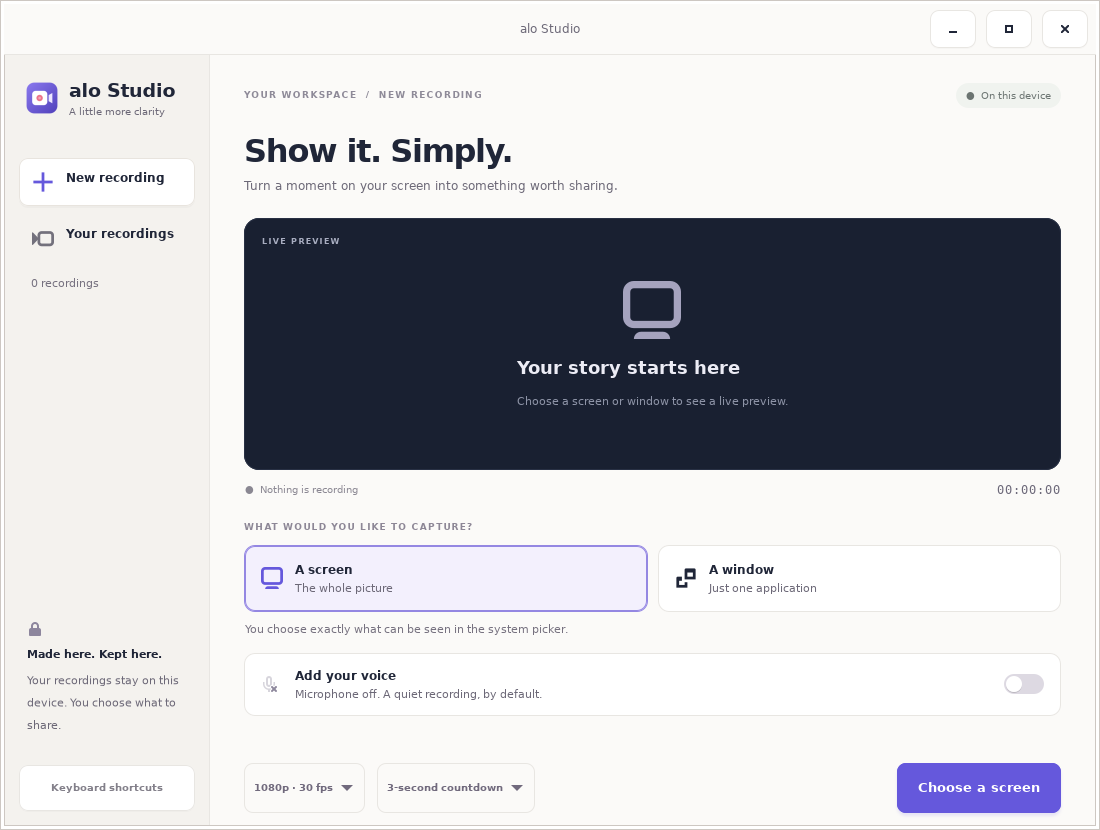
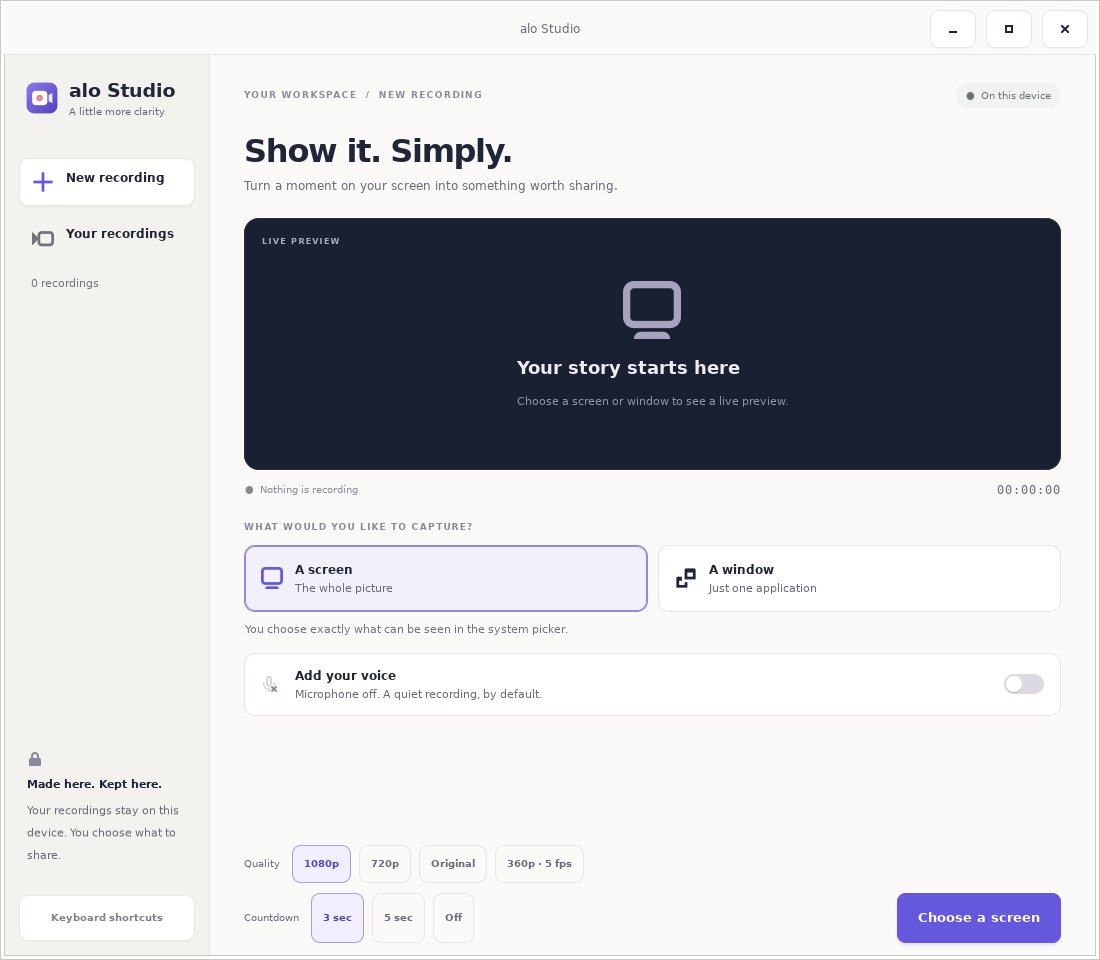
Update Studio screenshots and recording acceptance evidence

diff --git a/docs/autonomy/updates/recording-permissions-and-native-capture.md b/docs/autonomy/updates/recording-permissions-and-native-capture.md
@@ -5,6 +5,12 @@ Work remains on `app/alo-studio`, with a draft review. Market publication,
 signed distribution, production-image acceptance, and physical-hardware
 acceptance are separate. The complete booted walk is **not yet accepted**.
 
+Current result: native permissions, the installable application, and the scoped
+automated checks are implemented and passing. The software VM completes static
+window recording controls and saves verified media, but the final animated-window
+microphone run still loses samples. Studio stops and preserves that partial video.
+This remains a draft and is not demonstration-quality or market-release acceptance.
+
 ## Implemented boundaries
 
 alo's public portal identifies the Flatpak caller through its bus connection
@@ -32,8 +38,10 @@ from ordinary installed builds.
 
 ## Recording behavior
 
-Saved duration comes from encoded packets. Empty video cannot become a completed
-library entry. Preview dimensions are bounded without enlarging small sources.
+Saved duration is read from the completed media by GStreamer discovery, off the
+UI thread with a 15-second deadline. Missing, damaged, empty, or audio-only media
+is refused; failure preserves the temporary file. Preview dimensions are bounded
+without enlarging small sources.
 Recording preserves incoming timing, up to 30 frames per second, and does not
 invent duplicate frames for a slow source. A quality check offers an explicit
 choice before recording on a slow device.
@@ -42,7 +50,7 @@ The latest implementation keeps the selected capture stream connected from
 preview through recording. It attaches the encoder and optional audio branch to
 the running pipeline with a blocked tee pad, retaining the negotiated source
 rate when below 30. Finish stops inputs, then drains queued media into WebM.
-Encoded frames are bounded by both frame count and 128 MiB. Microphone recording
+Queued raw video is bounded by both frame count and 128 MiB. Microphone recording
 starts off for every new recording. Native dialogs share Studio's application ID.
 
 ## Verification and current limits
@@ -275,6 +283,89 @@ native publisher evidence is `/tmp/tmp.Auh5biNyDa`. The low-resource microphone
 tracks start 33.5 ms apart in the ordinary fixture and 102.5 ms apart through
 the restricted native descriptor. These repeat in dedicated recording CI.
 The updated SDK build and another actual VM measurement remain in progress.
+
+The next normally installed package, SHA-256
[1 lines of base64/hex data omitted]
+at Flatpak commit
[1 lines of base64/hex data omitted]
+completed Start, Pause, Resume, and Finish with microphone enabled. Both tracks
+start at zero and no microphone sample-loss warning was logged for that run.
+Clip `1793871577-829297835-2` decodes to 27 video frames at 476 x 360, 5 fps and
+863 audio buffers over 19.3 seconds. Video ends at 17.767 seconds; metadata
+incorrectly reports 24.306 seconds. WebM SHA-256 is
[1 lines of base64/hex data omitted]
+Evidence is `D:\\alo-studio-verification\\installed-verified-window-microphone`.
+
+The thumbnail establishes that the chooser's default had changed to Studio
+itself. This proves that selected window's lifecycle, not the demonstration
+window's recording quality. The final walk explicitly selects the demonstration
+window before Share. Sparse video and the duration discrepancy prevent a quality
+acceptance claim for this run.
+
+At `298342a5`, the application reads completed-file duration with GstDiscoverer
+instead of estimating it from encoder packets. Discovery runs on a worker after
+capture has closed. It must succeed before the library entry is committed.
+Formatting, clippy and 16 tests pass, including damaged/missing media refusal.
+Header discovery and decoded-stream duration queries differ in final packet
+padding. Each must fit the observed active recording window; the GTK flow
+requires its saved metadata to equal discovery exactly.
+
+The normally installed duration-fix package has SHA-256
[1 lines of base64/hex data omitted]
+Flatpak commit
[1 lines of base64/hex data omitted]
+It explicitly selected the demonstration window and completed the microphone
+Start/Pause/Resume/Finish flow. Clip `1793873010-622283278-2` has 41 video frames
+at 494 x 360, 5 fps and 762 audio buffers. Both tracks start at zero. The header
+and metadata both report 17,320 ms; decoded playback reports 17,340 ms.
+Its thumbnail contains only the intended demonstration window. WebM SHA-256 is
[1 lines of base64/hex data omitted]
+evidence is `D:\\alo-studio-verification\\installed-demonstration-window-microphone`.
+No microphone sample-loss warning was logged, but decoded timestamps still have
+gaps (up to 4.764 seconds between video-frame coverage and 2.1 seconds between
+audio-buffer coverage). Functional completion does not establish smooth motion
+or uninterrupted audio in this software VM.
+
+An intermittent host `gst_mini_object_unref(NULL)` critical was traced to pad
+buffer handling, not discovery. Filtered buffers now return `Handled`, letting
+the Rust binding consume each buffer once. `verify-native.sh` makes critical
+warnings fatal and deliberately delays branch preparation to exercise stale
+preview-frame filtering. At `199acff6`, formatting, clippy, 16 tests, this strict
+GTK flow, and all eight pinned-base media cases pass. GTK evidence is
+`/tmp/tmp.N8pHi8Hy0H`; ordinary PipeWire evidence is `/tmp/tmp.ZQInBFEzb6`;
+native publisher evidence is `/tmp/tmp.wiYFAu8H63`. The dedicated CI job
+`127183816629` also passed. The workspace screenshot now shows the actual current
+application, including direct quality and countdown controls.
+
+The resulting package is 1,094,736 bytes, SHA-256
[1 lines of base64/hex data omitted]
+Flatpak commit
[1 lines of base64/hex data omitted]
+It is installed normally in the VM. The final explicitly selected animated-window
+measurement used a separate GTK fixture with a visible, running spinner.
+Clip `1793875272-784685961-2` contains 13 distinct decoded video frames at
+452 x 360, 5 fps and 281 audio buffers. Both tracks start at zero. Its header
+and library metadata agree at 10,060 ms; decoded playback reports 10,080 ms.
+Video ends at 3.439 seconds, while audio ends at 10.06 seconds. The guest reports
+111,360 dropped microphone samples, and Studio automatically stops and saves.
+Pause did not complete before that stop. This is a failed motion/audio quality
+check, despite successful file finalization and accurate duration.
+
+Evidence is `D:\\alo-studio-verification\\installed-animated-window-validation`.
+The thumbnail confirms the intended animated demonstration window; the decoded
+frames are distinct. WebM SHA-256 is
[1 lines of base64/hex data omitted]
+The post-stop graph has no input streams and no capture workers remain. The
+normal SSH service was restored, the temporary verification key removed, and
+its private host forwarding rule closed. The application and evidence remain
+on the private VM disk; its staged OS overlay is temporary and will not survive
+a reboot. Only this software VM was available, as confirmed by the owner.
+
+Both dedicated recording CI (`127183816629`) and the broader OS gate
+(`127184154863`) pass on `199acff6`. Remaining release work is animated-source
+audio/video continuity in the software VM, production-image and physical-machine
+acceptance, then signed application-market publication. Desktop locking remains
+the separately authorised OS change.
 
 The dedicated application CI passed at `df655460`, `e5810d12`, and `21c303eb`,
 including the new isolated microphone fixture. Broader OS acceptance remains open;
